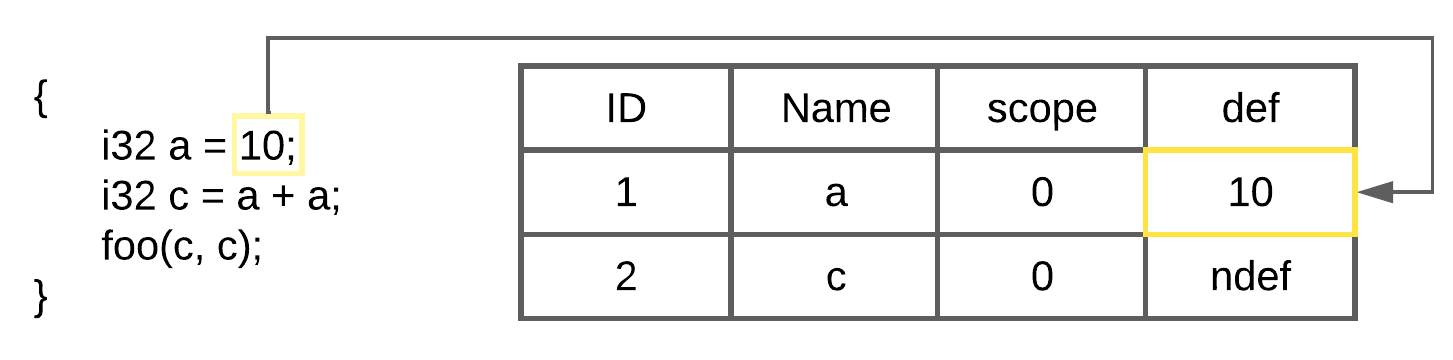
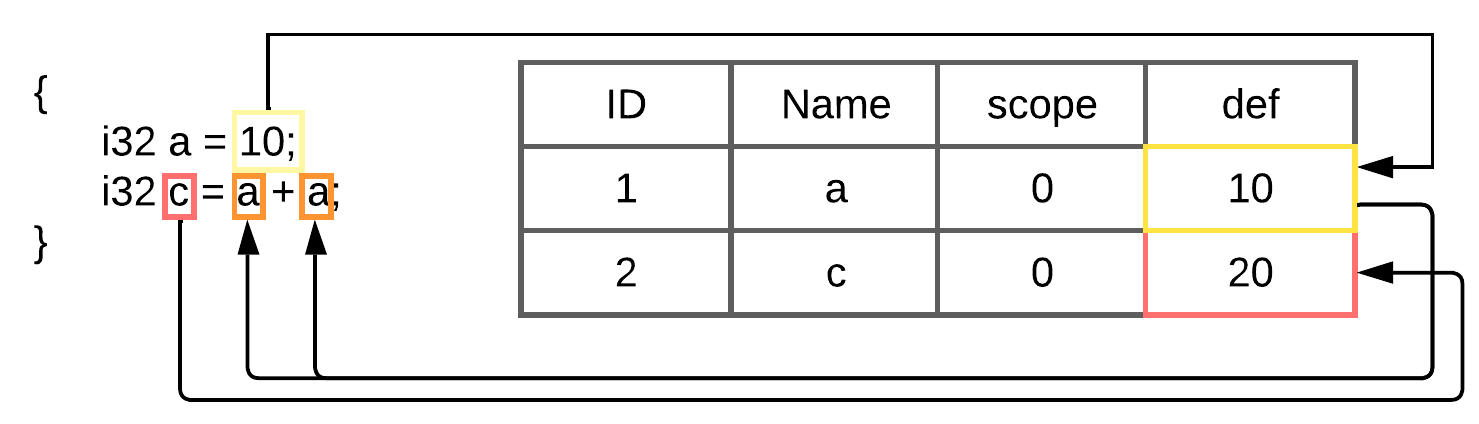
Constfold docs update

diff --git a/README.md b/README.md
@@ -426,7 +426,7 @@ The result of using the DAG is optimized code with Common Subexpression Eliminat
 Before we going any further, we should optimize our HIR with avaliable meta-information from this level. The simplest optimization here is the `constant fold` optimization due to availability of `DAG`. Same situation with `DFE` optimization. Let's speak about this approaches. 
 
 ### Constant folding / propagation (First pass)
-With formed `DAG` we can tell wich value is assigned to each variable. We don't transform code at this stage, we only define variable values in symtable.
+With formed `DAG` we can tell wich value is assigned to each variable. We don't transform code at this stage, we only define variable values in symtable. Also, we track arithmetics, that's why we can perform simple operations with already defined variables from symtable.
 ![hir_constfold](docs/media/HIR_constfold.png)
 
 ### Dead Function Elimination (DFE)
